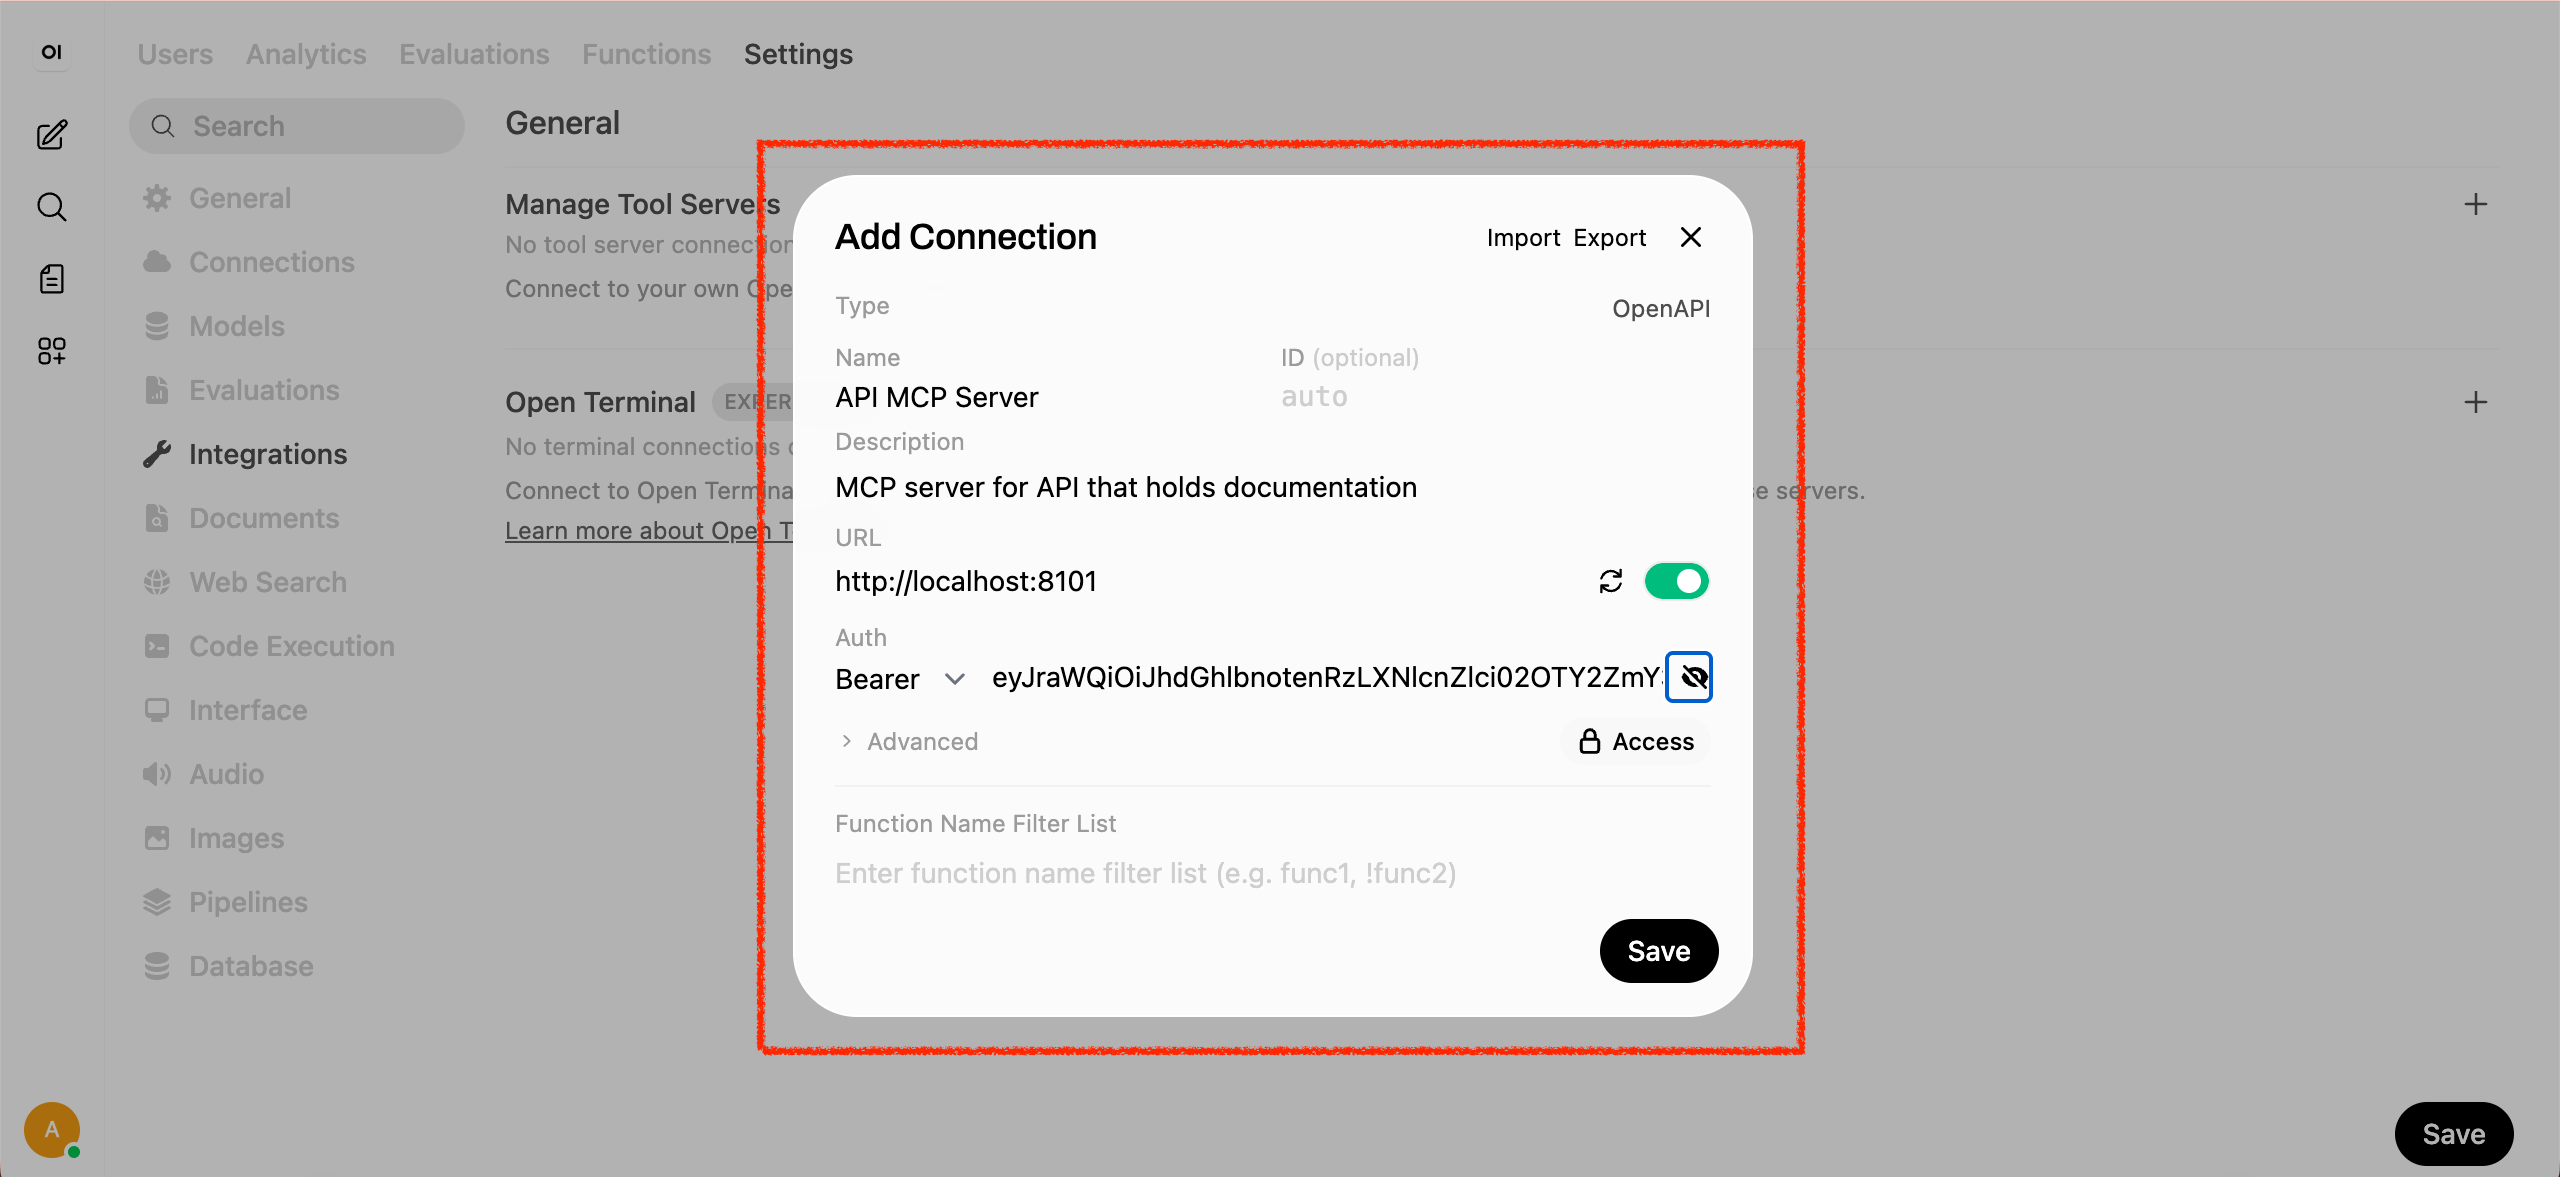
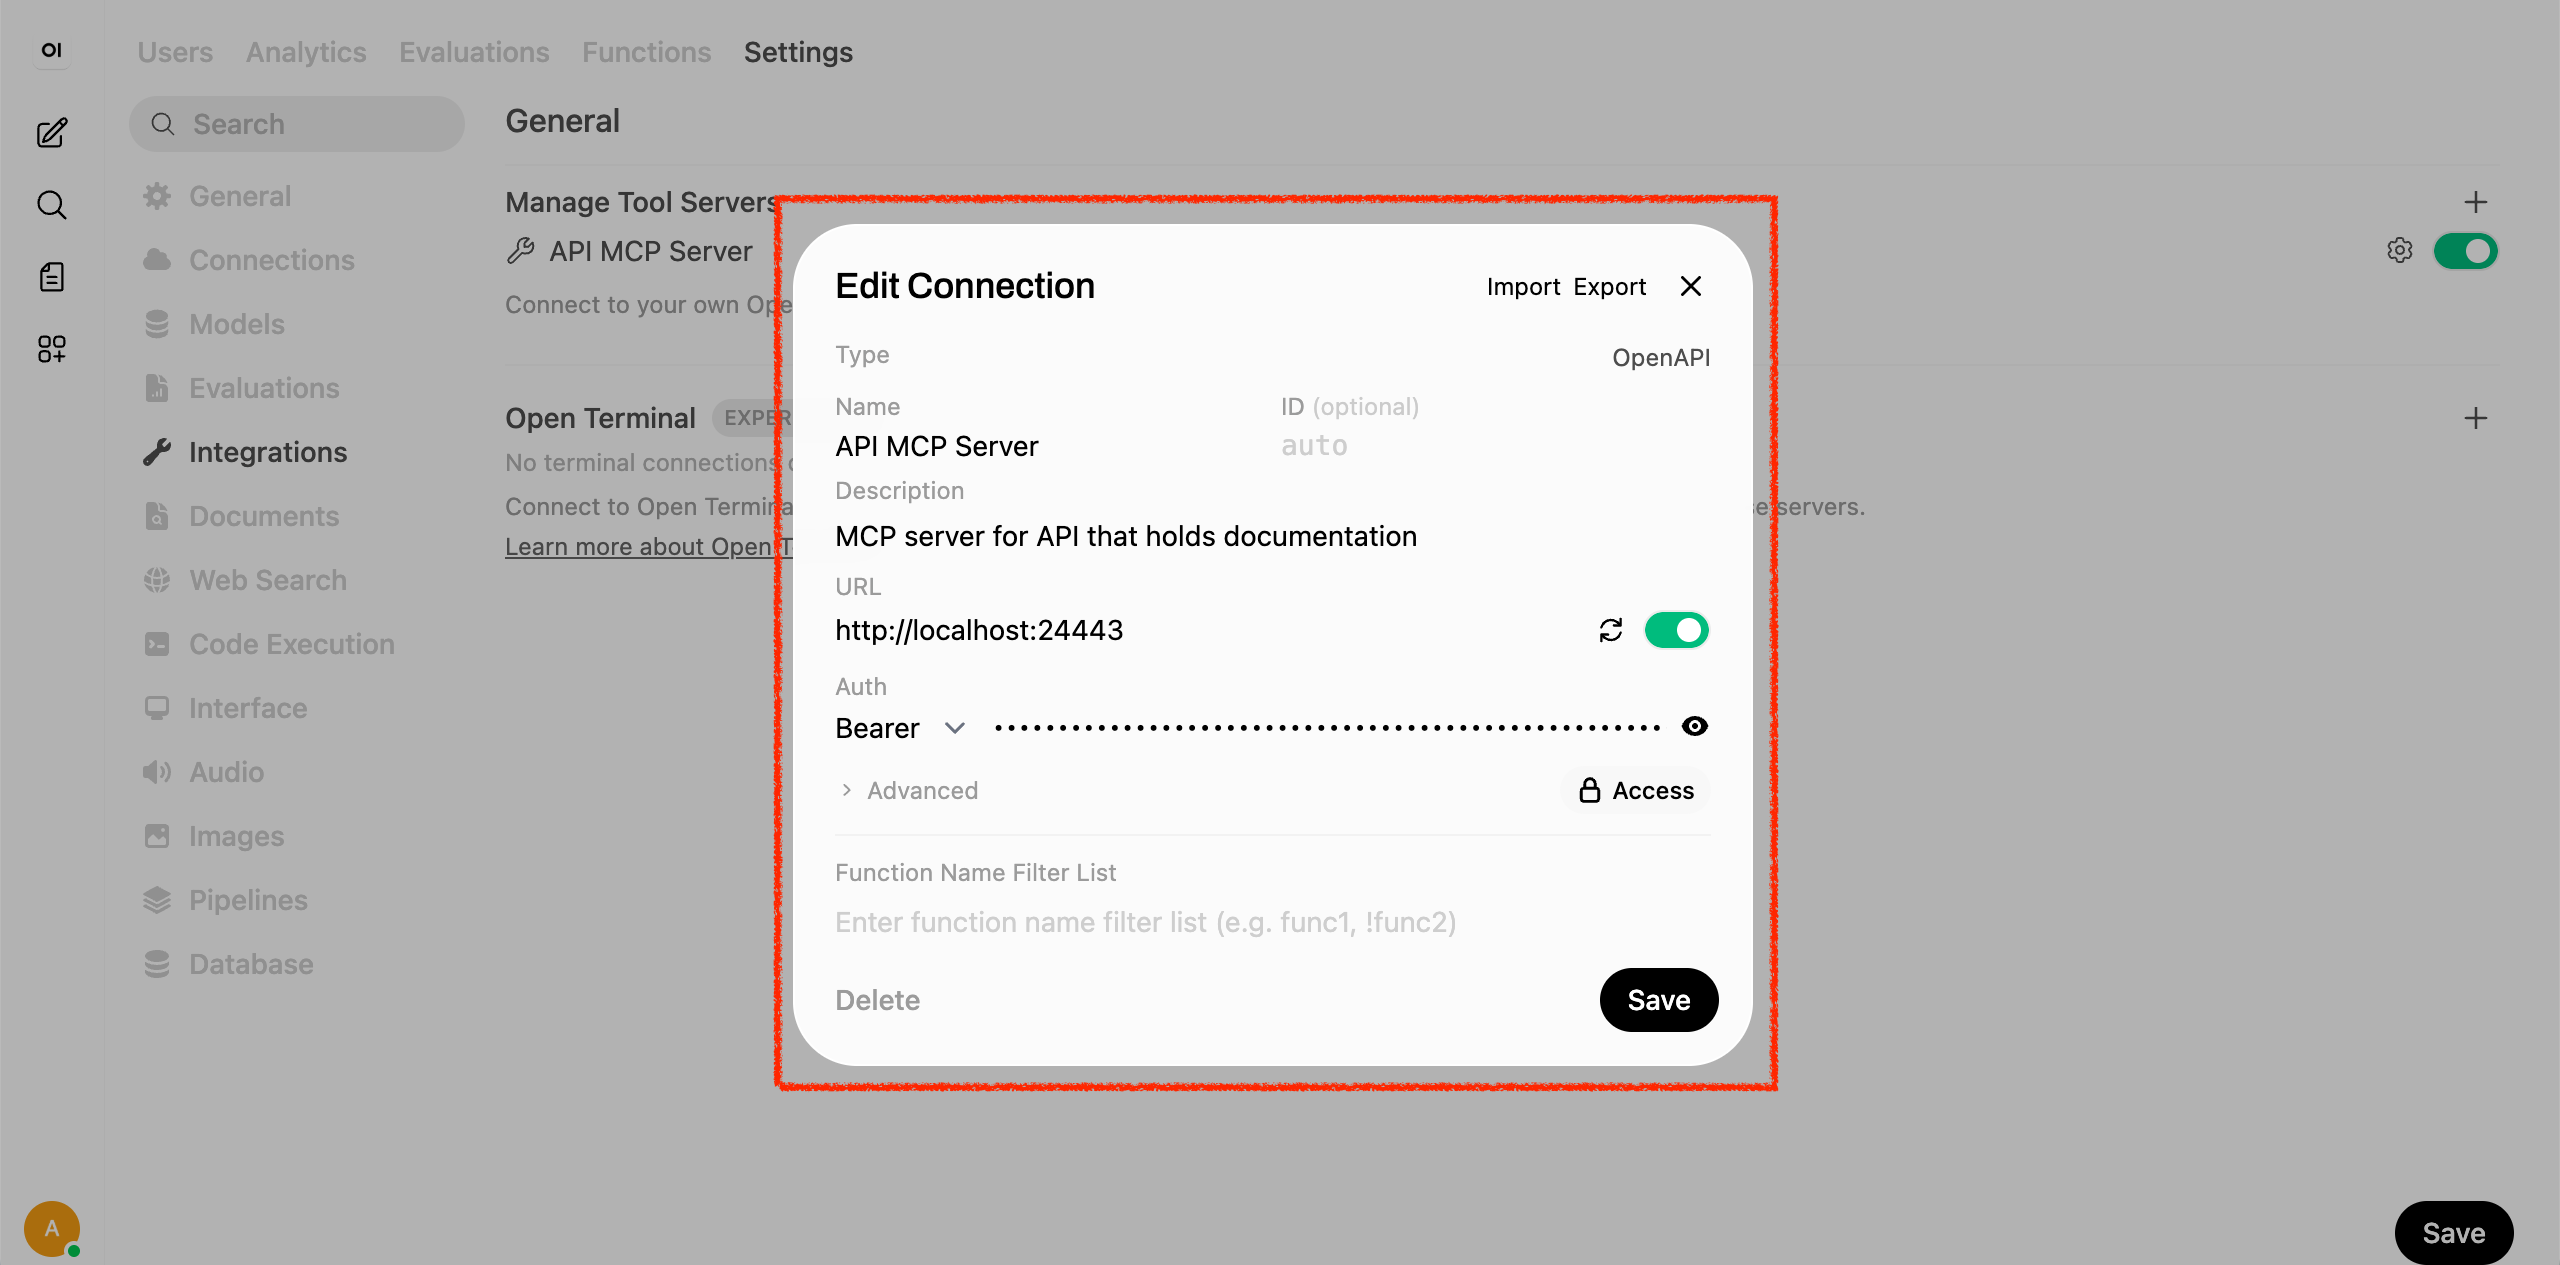
fix

diff --git a/tutorials/10-protect-mcp-server.md b/tutorials/10-protect-mcp-server.md
@@ -22,30 +22,72 @@ In this tutorial, we will secure the MCP server using an Authorization Server (A
 
 ## Run Authorization Proxy for API MCP
 
+We will deploy an authorization proxy for the API MCP server, that will check the access token to access to MCP:
+
 ```sh
 kubectl create deploy mcp-authorization-proxy -n api \
-  --image=ghcr.io/mlajkim/mcp-authorization-proxy:pr73
+  --image=ghcr.io/mlajkim/mcp-authorization-proxy:latest
 ```
 
-The cloned API project includes an authorization proxy server for the API MCP. To start the server, execute the following command:
+We are then going to attach the ZPU, that we have done:
 
-```bash
-export _authorization_proxy_port=8102
-export _authorization_proxy_target_port=24443
+```yaml
+kubectl patch deploy mcp-authorization-proxy -n api --patch "$(cat <<'EOF'
+spec:
+  template:
+    spec:
+      containers:
+        # 1. Update existing api-server container to read policies
+        - name: mcp-authorization-proxy
+          volumeMounts:
+            - name: api-server-policies
+              mountPath: /app/policies
+              readOnly: true
 
-make -C api_server mcp-proxy-local \
-  PROXY_PORT=$_authorization_proxy_port \
-  TARGET_PORT=$_authorization_proxy_target_port \
-  PROXY_AT_REQUIRED=true
+        # 2. Add ZPU sidecar container
+        - name: zpu
+          image: ghcr.io/mlajkim/zpu:latest
+          imagePullPolicy: Always
+          env:
+            - name: ZPU_DOMAIN
+              value: "api"
+            - name: ZTS_URL
+              value: "https://athenz-zts-server.athenz:4443/zts/v1"
+            - name: ZPU_INTERVAL_SECONDS
+              value: "5"
+          volumeMounts:
+            - name: api-server-policies
+              mountPath: /policies
+            - name: api-zpu-cert
+              mountPath: /var/run/athenz/zpu
+              readOnly: true
+
+      # 3. Define the volumes
+      volumes:
+        - name: api-server-policies
+          emptyDir: {}
+        - name: api-zpu-cert
+          secret:
+            secretName: api-zpu-cert
+            defaultMode: 0400
+EOF
+)"
 ```
 
 ## Update the MCP Target Port to Proxy
 
-Navigate to `User Icon` > `Admin Panel` > `Settings` > `Integrations`, and click the configuration icon for the API MCP Server.
+We have a service `mcp` that watches the `mcp` server right now, with selector: `Selector: app=mcp`:
 
-Change the MCP Server's target URL to `http://localhost:8102` so that traffic routes through the new Authorization Proxy.
+```sh
+kubectl describe svc mcp -n api
+```
 
-![10_change_mcp_target_port_to_authorzation_proxy](./assets/10_change_mcp_target_port_to_authorzation_proxy.png)
+We are going to change the service `mcp` to watch `mcp-authorization-proxy` instead, but with the same port and name:
+
+```sh
+kubectl delete svc mcp -n api
+kubectl expose deploy mcp-authorization-proxy -n api --port 8101 --target-port 8102 --name mcp
+```
 
 ## Verify
 

diff --git a/tutorials/08-ai-client-agent.md b/tutorials/08-ai-client-agent.md
@@ -150,7 +150,7 @@ Go to `User Icon` > `Admin Panel` > `Settings` > `Integrations` > `Manage Tool S
 
 - Name: `API MCP Server`
 - Description: `MCP server for API that holds documentation`
-- URL: `http://localhost:8101`
+- URL: `http://localhost:24443`
 - Auth type: `Bearer`
 - API Key: `<YOUR_ACCESS_TOKEN_THAT_YOU'VE_FETCHED`
 - Access: Change to `Public`
